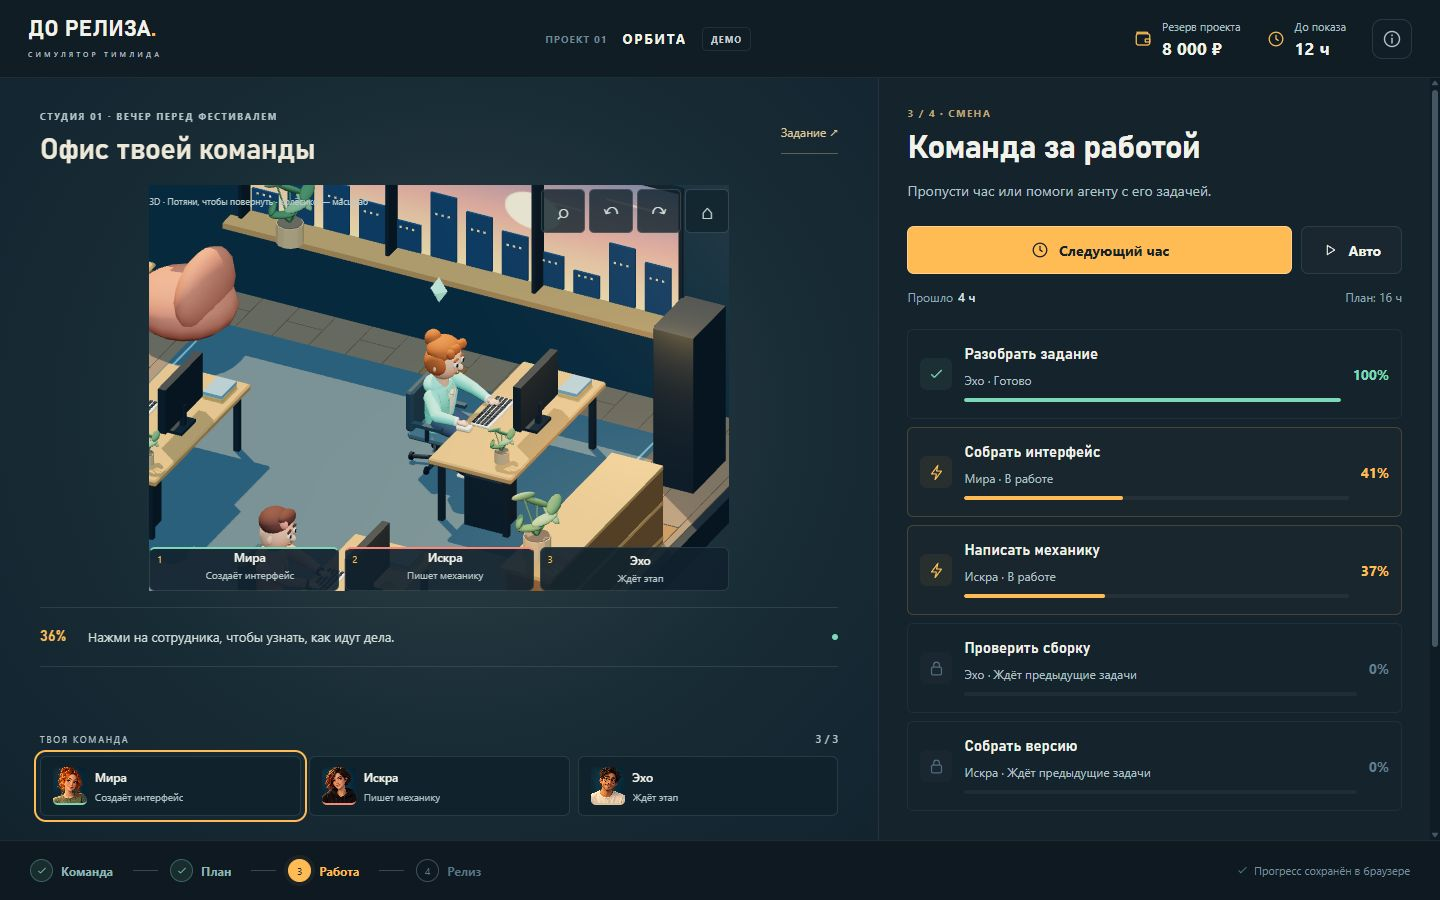
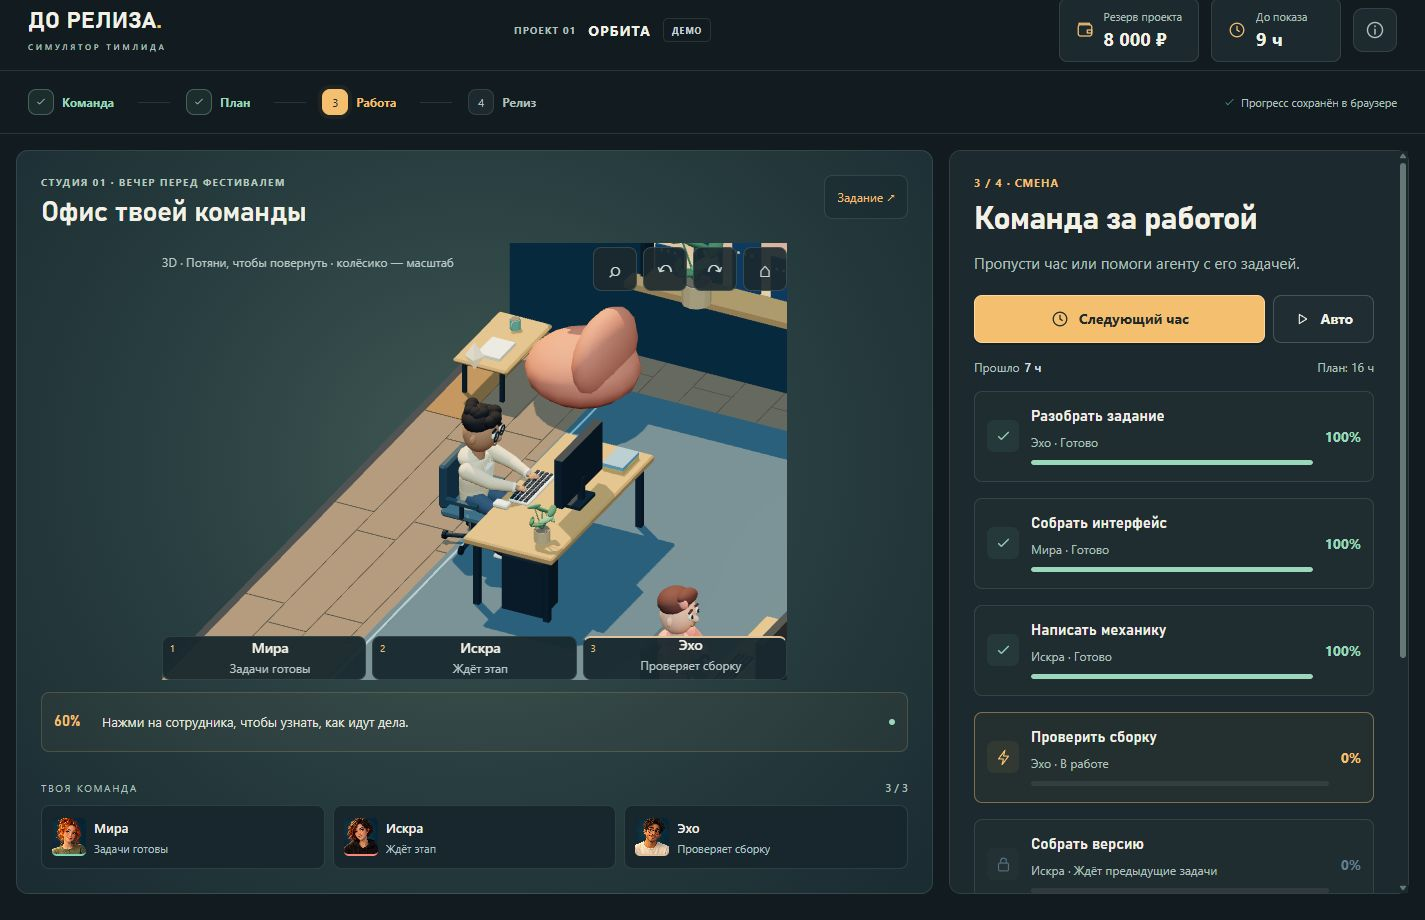
Verify merged demo layout and refresh playable previews

diff --git a/office.js b/office.js
@@ -102,7 +102,7 @@ export function renderOffice(game, selectedId, moving = false) {
   const idleStatus = id => TASKS.some(t => game.assignments[t.id] === id && game.progress[t.id] < 100) ? 'Ждёт этап' : 'Задачи готовы';
   const selected = agentById(selectedId), unseated = game.team.filter(id => !game.seats.includes(id));
   const seated = game.seats.filter(Boolean).length;
-  const hint = editable ? selected ? `${selected.name}: выбери компьютер${game.seats.includes(selectedId) ? ' для пересадки' : ''} или свободный участок пола.` : seated === 3 ? moving ? 'Команда занимает места. Пока можно осмотреть офис.' : game.stage === 'plan' ? 'Распредели задачи справа. Код и экран можно делать параллельно.' : 'Все на местах. Теперь раздай команде задачи справа.' : game.team.length ? 'Выбери персонажа в команде, затем компьютер.' : 'Найми первого агента — он придёт в студию.' : game.stage === 'event' ? 'Команда ждёт твоего решения. Время на паузе.' : game.stage === 'result' ? 'Релиз готов. Пора сыграть в «Орбиту»!' : 'Нажми на сотрудника, чтобы узнать, как идут дела.';
+  const hint = editable ? selected ? `${selected.name}: выбери компьютер${game.seats.includes(selectedId) ? ' для пересадки' : ''} или свободный участок пола.` : seated === 3 ? moving ? 'Команда занимает места. Пока можно осмотреть офис.' : game.stage === 'plan' ? 'Распредели задачи. Код и экран можно делать параллельно.' : 'Все на местах. Пора распределить задачи.' : game.team.length ? 'Выбери персонажа в команде, затем компьютер.' : 'Найми первого агента — он придёт в студию.' : game.stage === 'event' ? 'Команда ждёт твоего решения. Время на паузе.' : game.stage === 'result' ? 'Релиз готов. Пора сыграть в «Орбиту»!' : 'Нажми на сотрудника, чтобы узнать, как идут дела.';
   return `<section class="studio-scene playable-office" aria-label="Офис команды">
     <header class="office-heading"><div><span class="eyebrow">СТУДИЯ 01 · ВЕЧЕР ПЕРЕД ФЕСТИВАЛЕМ</span><h2>Офис твоей команды</h2></div><button class="office-brief" data-action="brief">Задание ↗</button></header>
     <div class="office-room" data-office-state="loading"><div id="office-webgl"></div><div class="office-camera-controls" aria-label="Камера офиса"><button data-action="office-camera" data-id="focus" aria-label="Приблизить выбранного персонажа" ${game.team.length?'':'disabled'}>⌕</button><button data-action="office-camera" data-id="left" aria-label="Повернуть офис влево">↶</button><button data-action="office-camera" data-id="right" aria-label="Повернуть офис вправо">↷</button><button data-action="office-camera" data-id="reset" aria-label="Вернуть исходный вид офиса">⌂</button></div><span class="office-render-status" role="status">Загружаем 3D-студию…</span><span class="office-movement" aria-live="polite"></span><svg class="room-art" viewBox="0 -20 1000 700" aria-hidden="true">${room()}${stations.map((_, i) => workstation(i, agentById(game.seats[i]), active.find(t => game.assignments[t.id] === game.seats[i]), game)).join('')}</svg>

diff --git a/app.js b/app.js
@@ -77,7 +77,8 @@ function topbar() {
 function scene() { return renderOffice(game, officeSelection, officeMoving); }
 function hirePanel() {
   const a=agentById(candidate), hired=game.team.includes(a.id), canHire=hired||(game.team.length<3&&game.budget>=a.cost);
-  return `<div class="panel-header"><div class="eyebrow">1 / 4 · ${DEMO?'ДЕМО-КОМАНДА':'КОМАНДА'}</div><h1>${DEMO?'Познакомься с командой':'Кого берём?'}</h1><p>${DEMO?'Начни с готового состава. Выбери персонажа, попробуй прогулку и переходи к задачам.':'Три места. Шесть кандидатов.<br>Найми агента, затем выбери для него компьютер в офисе.'}</p></div>
+  const quickTeam = DEMO && game.team.length === 3;
+  return `<div class="panel-header"><div class="eyebrow">1 / 4 · ${DEMO?'ДЕМО-КОМАНДА':'КОМАНДА'}</div><h1>${quickTeam?'Познакомься с командой':'Кого берём?'}</h1><p>${quickTeam?'Команда собрана. Выбери персонажа, попробуй прогулку и переходи к задачам.':'Три места. Шесть кандидатов.<br>Найми агента, затем выбери для него компьютер в офисе.'}</p></div>
     <div class="candidate-grid" aria-label="Кандидаты">${AGENTS.map(x=>`<button class="candidate ${candidate===x.id?'selected':''} ${game.team.includes(x.id)?'hired':''}" data-action="candidate" data-id="${x.id}" aria-label="${x.name}, ${x.role}, ${money(x.cost)}" aria-pressed="${candidate===x.id}">${portrait(x)}<span><b>${x.name}</b><small>${money(x.cost)}</small></span>${game.team.includes(x.id)?`<span class="hired-check">${icon('check',13)}</span>`:''}</button>`).join('')}</div>
     <section class="agent-detail" style="--agent:${a.color}"><div class="agent-profile"><div class="portrait-frame">${portrait(a,'large-portrait')}${badge(a.role)}</div><div class="radar-wrap">${radar(a)}</div></div>
       <dl class="mobile-skills">${SKILLS.map(s=>`<div><dt>${s.label}</dt><dd>${a.stats[s.key]}</dd></div>`).join('')}</dl>

diff --git a/README.md b/README.md
@@ -70,7 +70,7 @@ npm run build
 
 Проверена именно папка сборки, включая размещение в подпапке. Пройдены готовая команда, прогулка, повторная посадка, помощь Искре, три события, результат 95/100 за 13 игровых часов и победа в «Орбите» стрелками клавиатуры. Сохранение события восстановлено на телефоне; устранён возврат прокрутки к офису при перезагрузке. Ошибок консоли в этом прохождении нет. Обычная партия и демо используют разные ключи localStorage.
 
-Проверены ширины 320, 390, 768, 1024 и 1440 px в Chromium. Это эмуляция размера окна, не проверка реальных Android/iOS. Потеря WebGL-контекста в этой итерации специально не воспроизводилась. Столкновения сотрудников упрощены; это пока одна рабочая смена, а не полная бытовая симуляция Sims. Скриншоты контроля — в outputs/, итоговые превью — в art/blender/.
+Проверены ширины 320, 390, 768, 1024, 1440 и 1920 px в Chromium. Это эмуляция размера окна, не проверка реальных Android/iOS. Потеря WebGL-контекста в этой итерации специально не воспроизводилась. Столкновения сотрудников упрощены; это пока одна рабочая смена, а не полная бытовая симуляция Sims. Скриншоты контроля — в outputs/, итоговые превью — в art/blender/.
 
 ## Следующая итерация
 

diff --git a/DEPLOY.md b/DEPLOY.md
@@ -17,6 +17,12 @@ python -m http.server 5180 --bind 127.0.0.1 --directory dist/demo-v05
 
 Содержимое `dist/demo-v05/` скопировать в каталог сайта. Готовый локальный архив: `dist/do-reliza-demo-0.5.0.zip`. При распаковке index.html должен оказаться в корне выбранного каталога. Можно разместить в подпапке: все пути относительные. Для быстрого старта добавить `?demo=1` к адресу.
 
+Для повторной упаковки после `npm run build` в PowerShell:
+
+```powershell
+Compress-Archive -Path dist/demo-v05/* -DestinationPath dist/do-reliza-demo-0.5.0.zip -Force
+```
+
 На сервер нужны только файлы этой сборки. Рабочую папку проекта, .git, work/, исходники Blender и настройки Codex не публиковать. Сборщик копирует игровые модули, assets/ и локальную Three.js с её MIT-лицензией; исходники и локальные логи в сборку не входят.
 
 Стандартный статический сервер должен отдавать .js как JavaScript, .css как CSS. Для index.html предпочтительна повторная проверка кэша; модули и GLB имеют версию в URL. SPA fallback, база данных и Node.js в production не требуются. Доступ посетителей регулируется самим хостингом.
